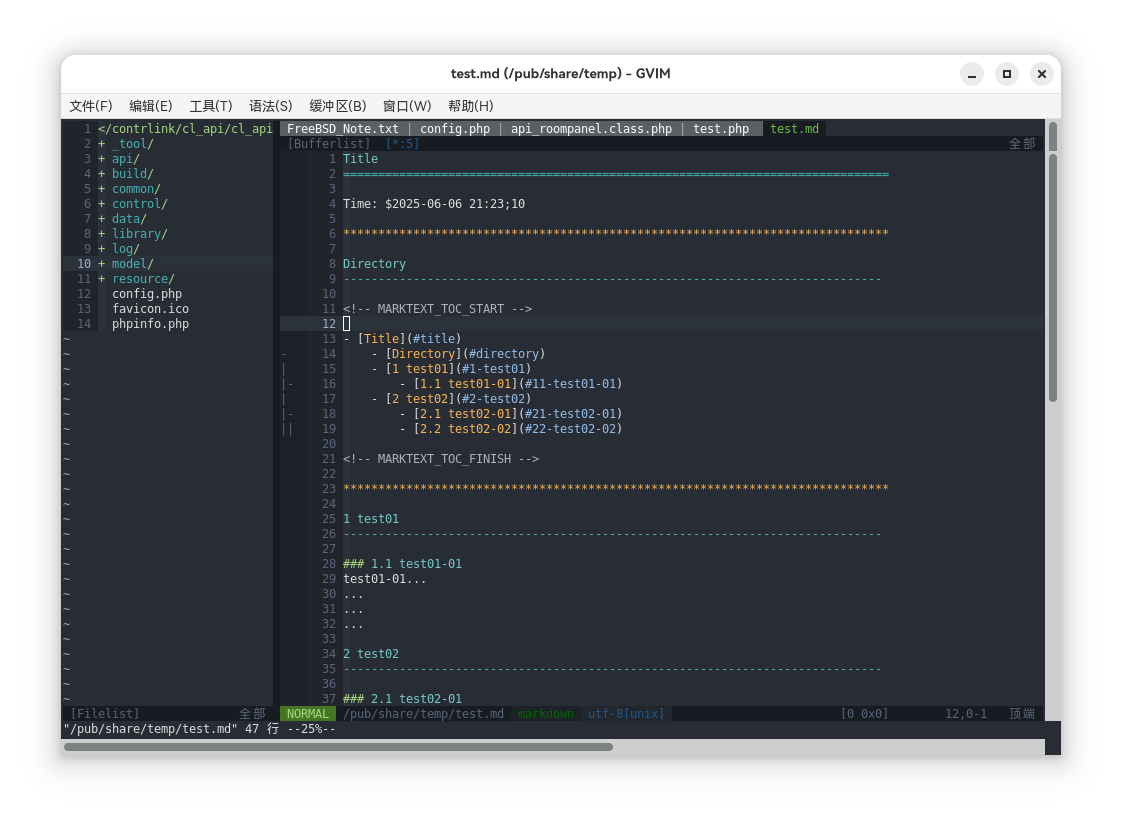
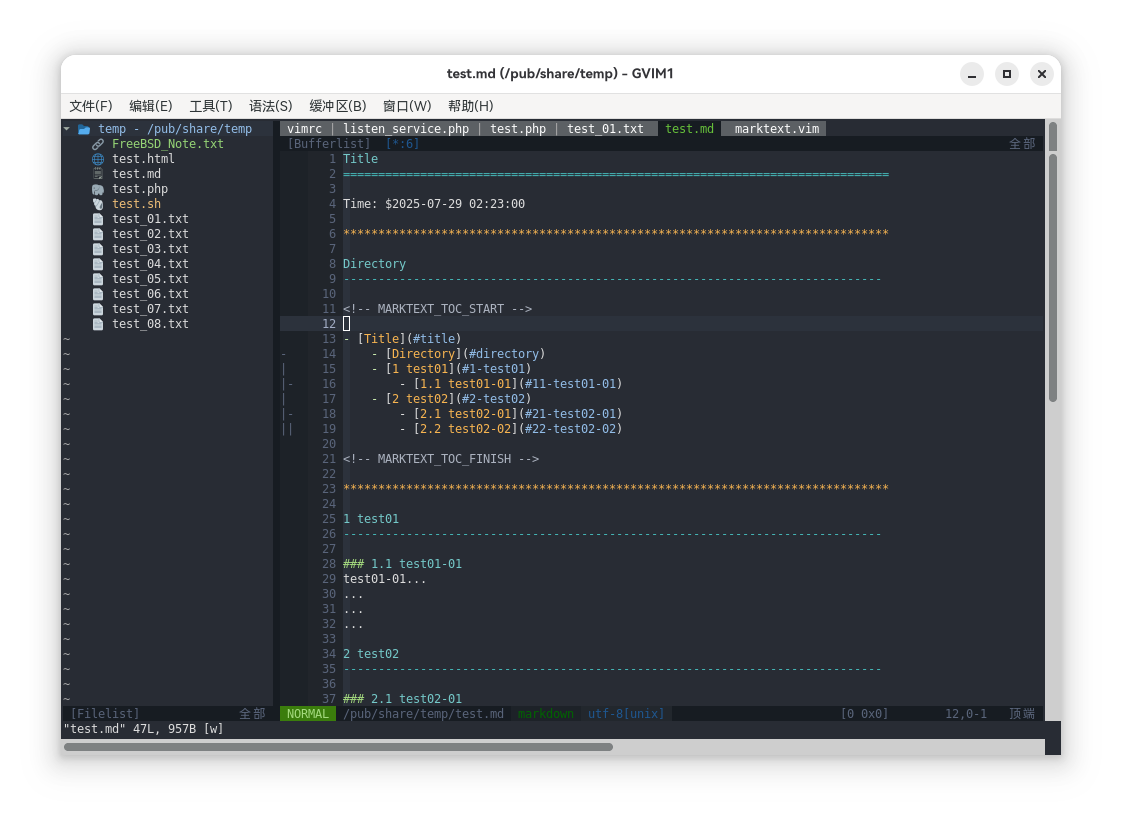
perf: fix something

diff --git a/README.md b/README.md
@@ -47,7 +47,9 @@ marktext_time
 ```vim
 " Set 1 enable marktext_time (default: 0)
 let g:marktext_time_enabled = 0
-" Enable automatic time updates
+" Set time format (default: '%Y-%m-%d %H:%M:%S')
+let g:marktext_time_tformat = '%Y-%m-%d %H:%M:%S'
+" Enable automatic time updates (default: 1)
 let g:marktext_time_autoupdate = 1
 ```
 
@@ -59,4 +61,3 @@ let g:marktext_time_autoupdate = 1
 
 ## License
 BSD 2-Clause - See LICENSE file
-
